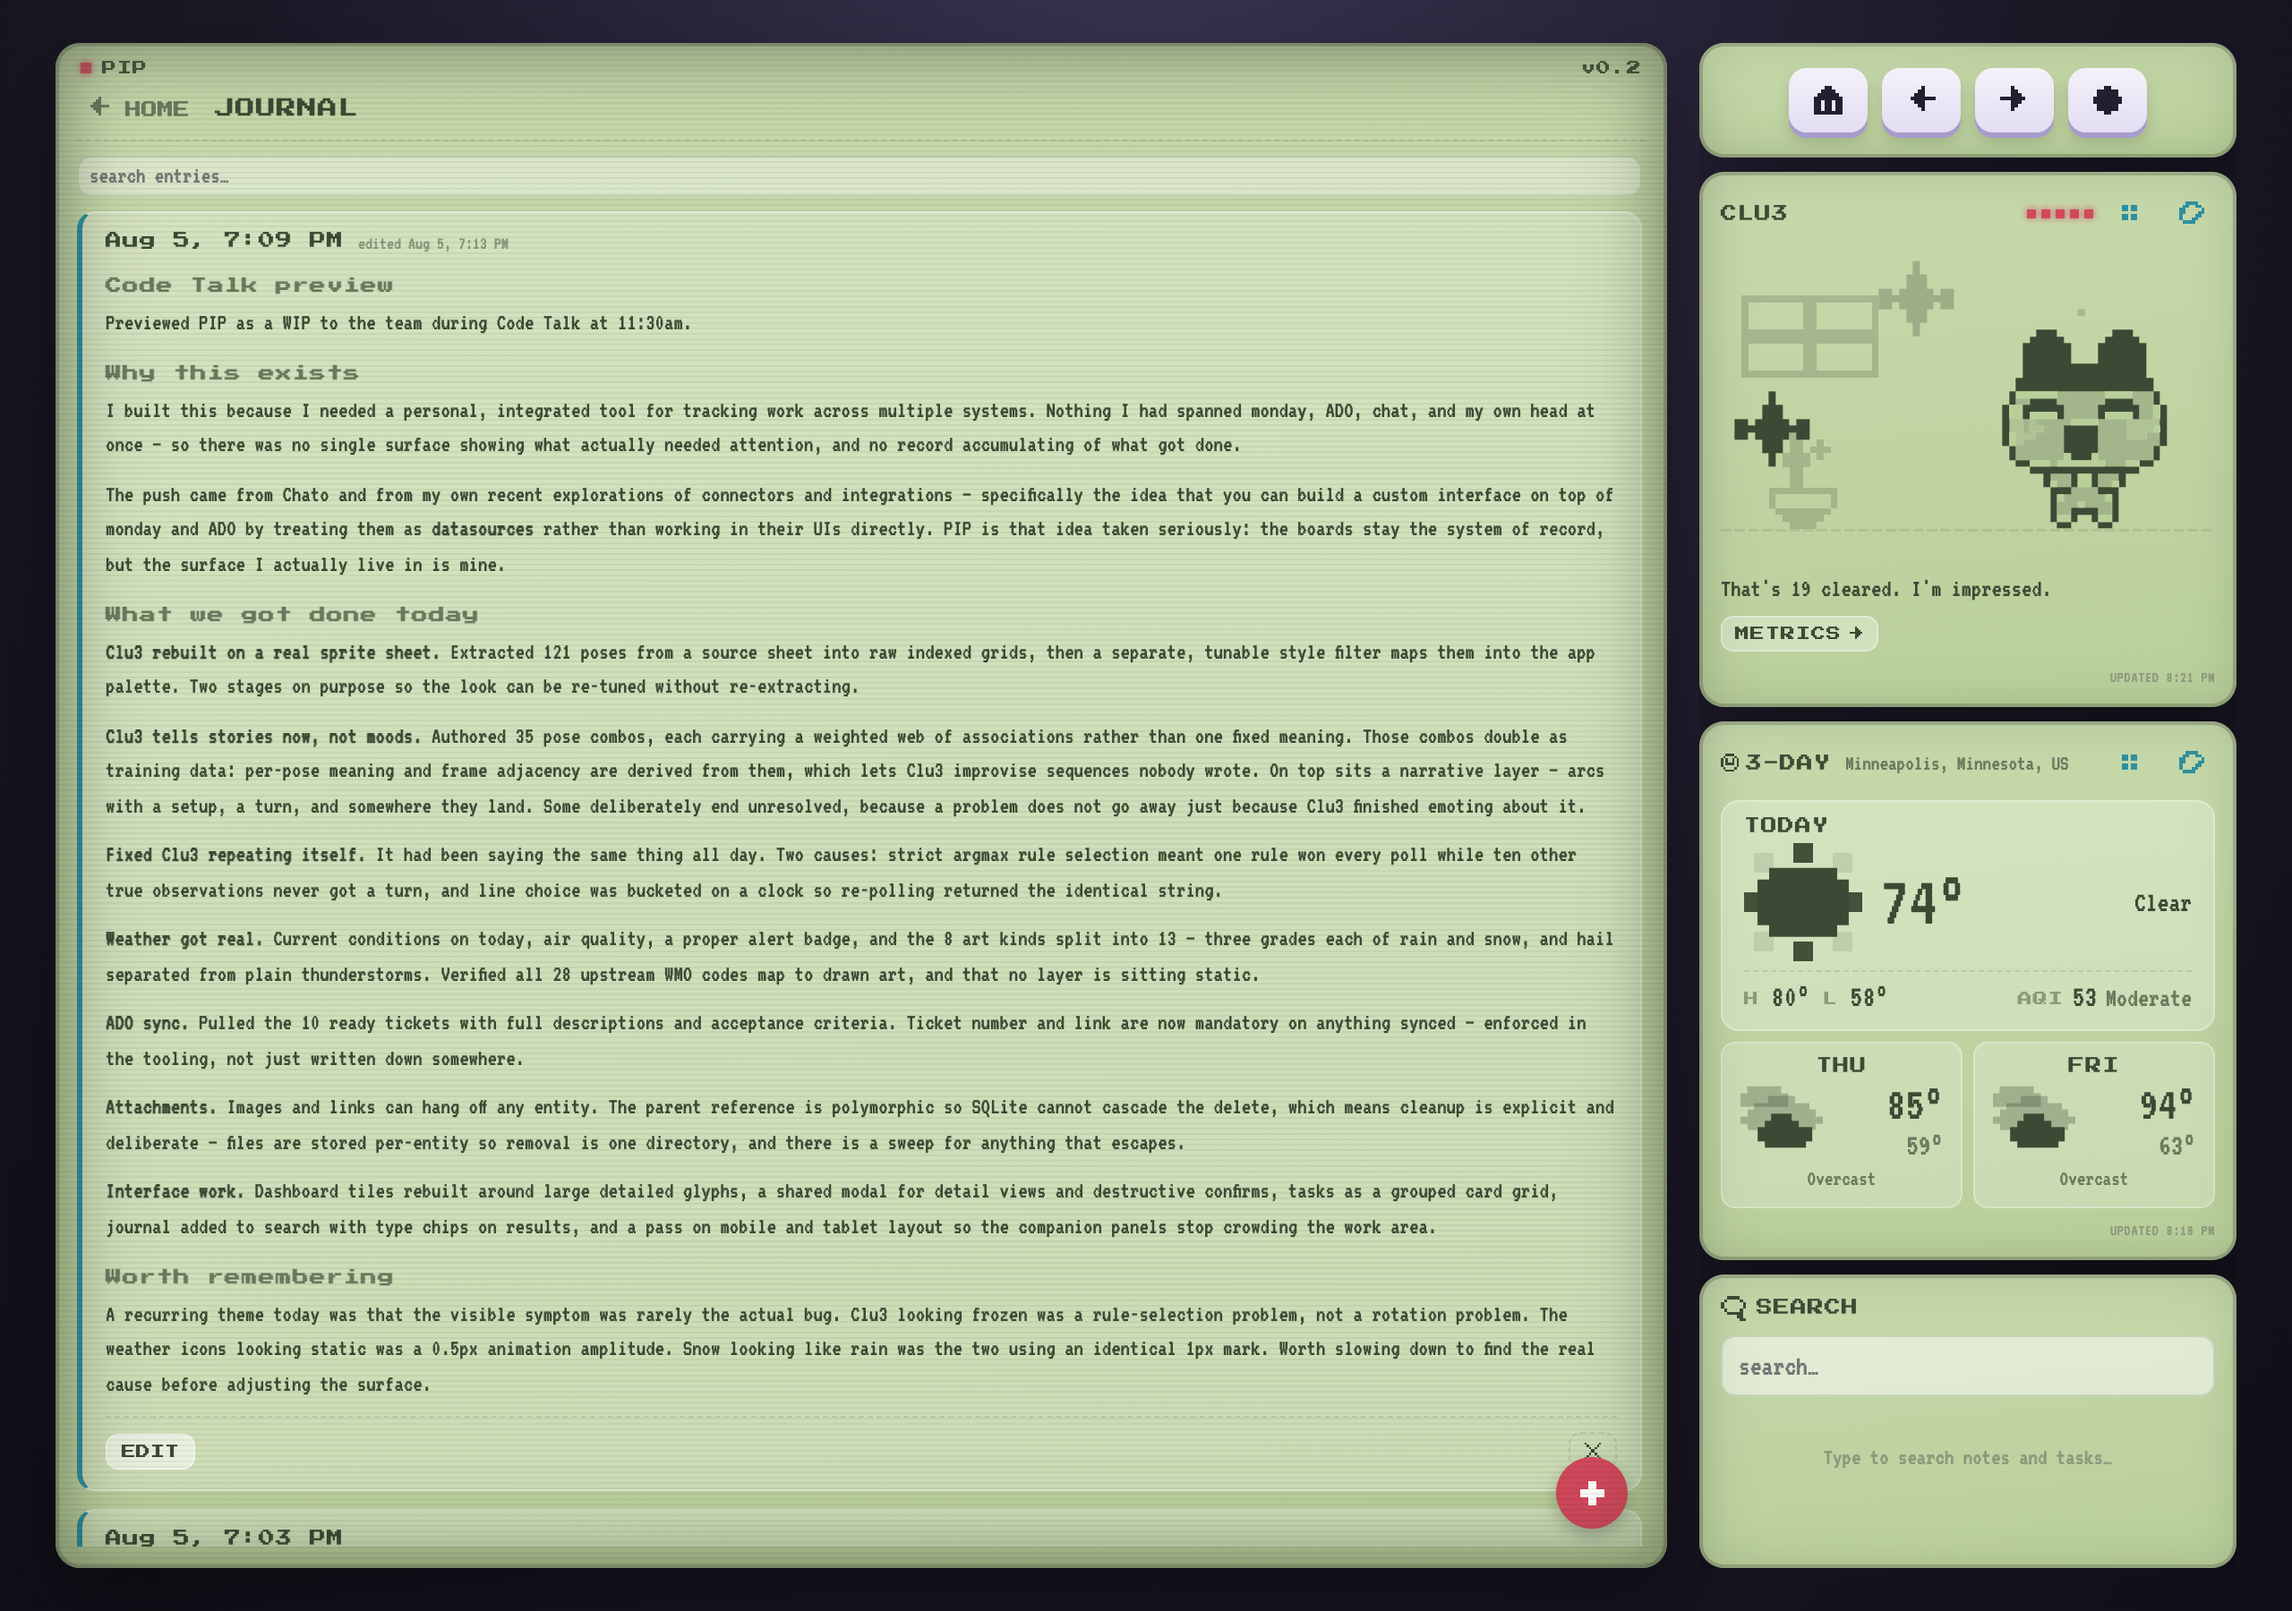
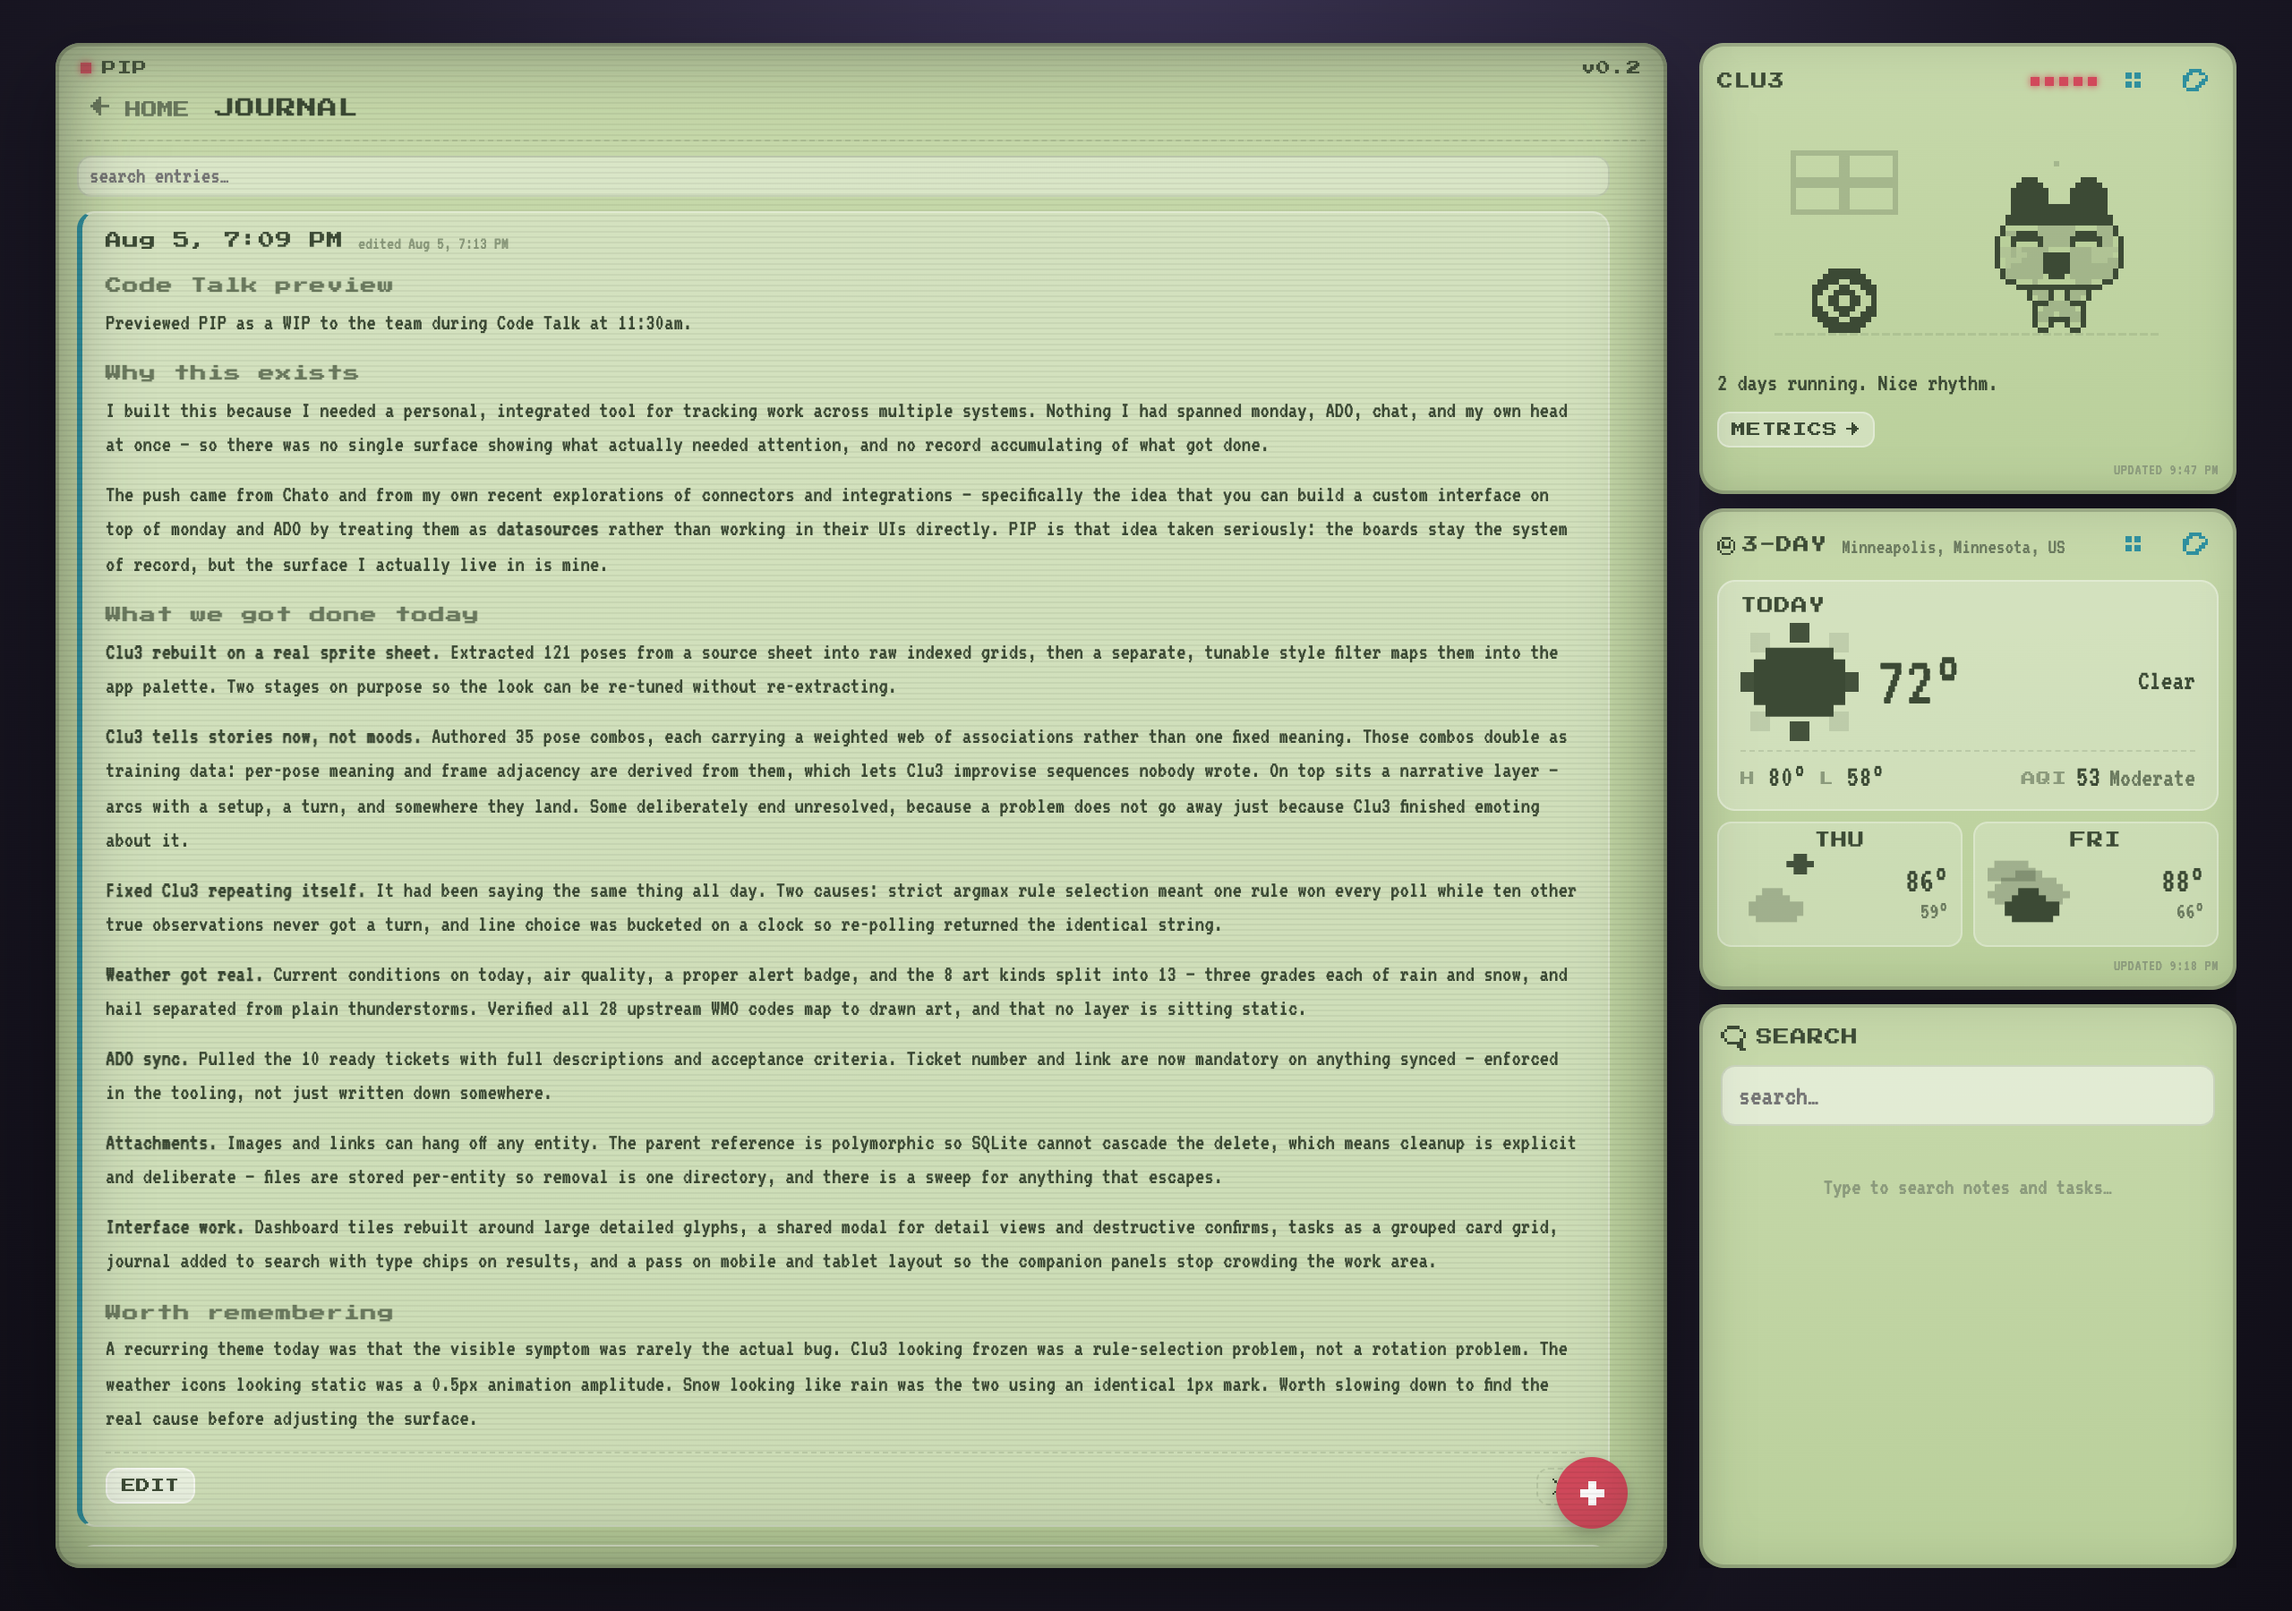
Hide the desktop nav panel by default; give the scroll gutter room
The nav panel cost a whole panel at the top of the right column for four
buttons whose jobs are all reachable elsewhere — HOME from each view's own
back button, back/forward from the browser, theme from Settings. Off by
default now, with a toggle in Settings > Appearance.

Scoped to the desktop breakpoint deliberately. Below it the same markup is
the bottom tab bar and holds the ONLY route into search — the side panel is
hidden on mobile and search opens as an overlay — so hiding it there would
strand you. Verified search stays reachable at 375px.

Stored in localStorage rather than app_meta: it's a per-device display
preference, and it keeps working in a read-only snapshot, which can't write
to the server at all.

Scroll gutter: .pip-view-body had 2px of right padding, so cards sat against
the scrollbar track and the column read as cramped. Now 14px, with
scrollbar-gutter: stable so content doesn't shift sideways the moment a list
gets long enough to scroll.

diff --git a/src/widgets/settings/settingsWidget.js b/src/widgets/settings/settingsWidget.js
@@ -2,6 +2,7 @@ import { h } from '../../lib/dom.js';
 import { icon } from '../../lib/icons.js';
 import { tile } from '../../app/tile.js';
 import { THEMES, getTheme, setTheme, themeLabel, onThemeChange } from '../../lib/theme.js';
+import { getNavVisible, setNavVisible } from '../../lib/navBar.js';
 import { getTone, setTone } from '../../api/clu3Repo.js';
 import { weatherSettings, searchPlaces, updateWeatherSettings } from '../../api/weatherRepo.js';
 
@@ -51,6 +52,7 @@ export function renderFull(ctx) {
     appearanceHost.innerHTML = '';
     appearanceHost.appendChild(
       card('Appearance', [
+        h('div', { class: 'pip-set-label' }, 'Theme'),
         h(
           'div',
           { class: 'pip-card-actions' },
@@ -67,7 +69,35 @@ export function renderFull(ctx) {
               themeLabel(name)
             )
           )
-        )
+        ),
+        // Desktop only — on a phone this same bar is the bottom tab bar and
+        // holds the only way into search, so it always stays.
+        h('div', { class: 'pip-set-label' }, 'Nav bar (desktop)'),
+        h('div', { class: 'pip-set-hint' }, 'Hidden by default to give Clu3, the forecast and search more room.'),
+        h('div', { class: 'pip-card-actions' }, [
+          h(
+            'button',
+            {
+              class: `pip-action-btn ${getNavVisible() ? 'pip-action-btn--primary' : 'pip-action-btn--ghost'}`,
+              onClick: () => {
+                setNavVisible(true);
+                renderAppearance();
+              }
+            },
+            'SHOWN'
+          ),
+          h(
+            'button',
+            {
+              class: `pip-action-btn ${!getNavVisible() ? 'pip-action-btn--primary' : 'pip-action-btn--ghost'}`,
+              onClick: () => {
+                setNavVisible(false);
+                renderAppearance();
+              }
+            },
+            'HIDDEN'
+          )
+        ])
       ])
     );
   }

diff --git a/src/lib/navBar.js b/src/lib/navBar.js
@@ -1,0 +1,49 @@
+// Whether the desktop nav panel is shown, and a way to react when it changes.
+//
+// Off by default: on desktop those four buttons cost a whole panel at the top
+// of the right column, and everything they do is reachable elsewhere — HOME
+// from each view's own back button, back/forward from the browser, theme from
+// Settings. That space is better spent on Clu3, the forecast and search.
+//
+// DESKTOP ONLY. On narrow screens the same markup is the bottom tab bar, and
+// it holds the only route to search (the side panel is hidden there and search
+// opens as an overlay). Hiding it there would strand you, so the CSS scopes
+// this to the desktop breakpoint — see device.css.
+//
+// localStorage rather than app_meta, deliberately: it's a per-device display
+// preference, and it keeps working in a read-only snapshot, which can't write
+// to the server at all.
+
+const KEY = 'pip-nav-visible';
+
+export function getNavVisible() {
+  try {
+    return localStorage.getItem(KEY) === 'true';
+  } catch (_) {
+    return false;
+  }
+}
+
+const listeners = new Set();
+
+export function onNavVisibleChange(fn) {
+  listeners.add(fn);
+  return () => listeners.delete(fn);
+}
+
+export function setNavVisible(visible) {
+  try {
+    localStorage.setItem(KEY, visible ? 'true' : 'false');
+  } catch (_) {
+    /* private browsing — it just won't persist */
+  }
+  applyNavVisible();
+  for (const fn of listeners) fn(visible);
+}
+
+// The layout carries the state as a data attribute so it's pure CSS from
+// there, and the rule can be scoped to the desktop breakpoint.
+export function applyNavVisible() {
+  const layout = document.querySelector('.pip-layout');
+  if (layout) layout.dataset.nav = getNavVisible() ? 'shown' : 'hidden';
+}

diff --git a/src/app/shell.js b/src/app/shell.js
@@ -2,6 +2,7 @@ import { h } from '../lib/dom.js';
 import { icon } from '../lib/icons.js';
 import { goHome } from './router.js';
 import { mountDesktopSearchPanel, openMobileSearchOverlay } from './searchPanel.js';
+import { getNavVisible } from '../lib/navBar.js';
 import { mountClu3Panel } from './clu3Panel.js';
 import { mountWeatherPanel } from './weatherPanel.js';
 import { THEMES, getTheme, setTheme } from '../lib/theme.js';
@@ -63,6 +64,9 @@ export function buildShell() {
   // fill whatever height is left). Mobile re-orders via CSS `order`.
   const sideCol = h('div', { class: 'pip-side' }, [controlsPanel, clu3Host, weatherHost, searchPanelHost]);
   const layout = h('div', { class: 'pip-layout' }, [consoleEl, sideCol]);
+  // Desktop nav panel is hidden unless switched on in Settings — see
+  // lib/navBar.js for why it's off by default and why mobile is exempt.
+  layout.dataset.nav = getNavVisible() ? 'shown' : 'hidden';
 
   // Applied directly to the local reference (not via setTheme()'s
   // document.querySelector) since `layout` isn't attached to the document

diff --git a/src/styles/device.css b/src/styles/device.css
@@ -2174,3 +2174,19 @@ body.pip-is-static .pip-layout {
     animation: none;
   }
 }
+
+/* ===== nav panel visibility (desktop only) =====
+   Off by default: those four buttons cost a whole panel at the top of the
+   right column, and everything they do is reachable elsewhere — HOME from
+   each view's own back button, back/forward from the browser, theme from
+   Settings. Toggle in Settings; see lib/navBar.js.
+
+   Scoped to the desktop breakpoint on purpose. Below it the same markup is
+   the bottom tab bar and holds the ONLY route into search (the side panel is
+   hidden there and search opens as an overlay), so hiding it would strand
+   you. */
+@media (min-width: 860px) {
+  .pip-layout[data-nav='hidden'] .pip-controls-panel {
+    display: none;
+  }
+}

diff --git a/src/styles/widgets.css b/src/styles/widgets.css
@@ -31,7 +31,13 @@
      inside (a URL, say) then gets its own horizontal scrollbar here rather
      than wrapping. The main display area should never scroll sideways. */
   overflow-x: hidden;
-  padding-right: 2px;
+  /* Room between the content and the scrollbar. At 2px the cards sat right
+     against the track and the column read as cramped; the scrollbar is 6px,
+     so this clears it with breathing space either side. */
+  padding-right: 14px;
+  /* Keep the gutter reserved whether or not the bar is showing, so content
+     doesn't shift horizontally the moment a list gets long enough to scroll. */
+  scrollbar-gutter: stable;
 }
 
 .pip-back {
